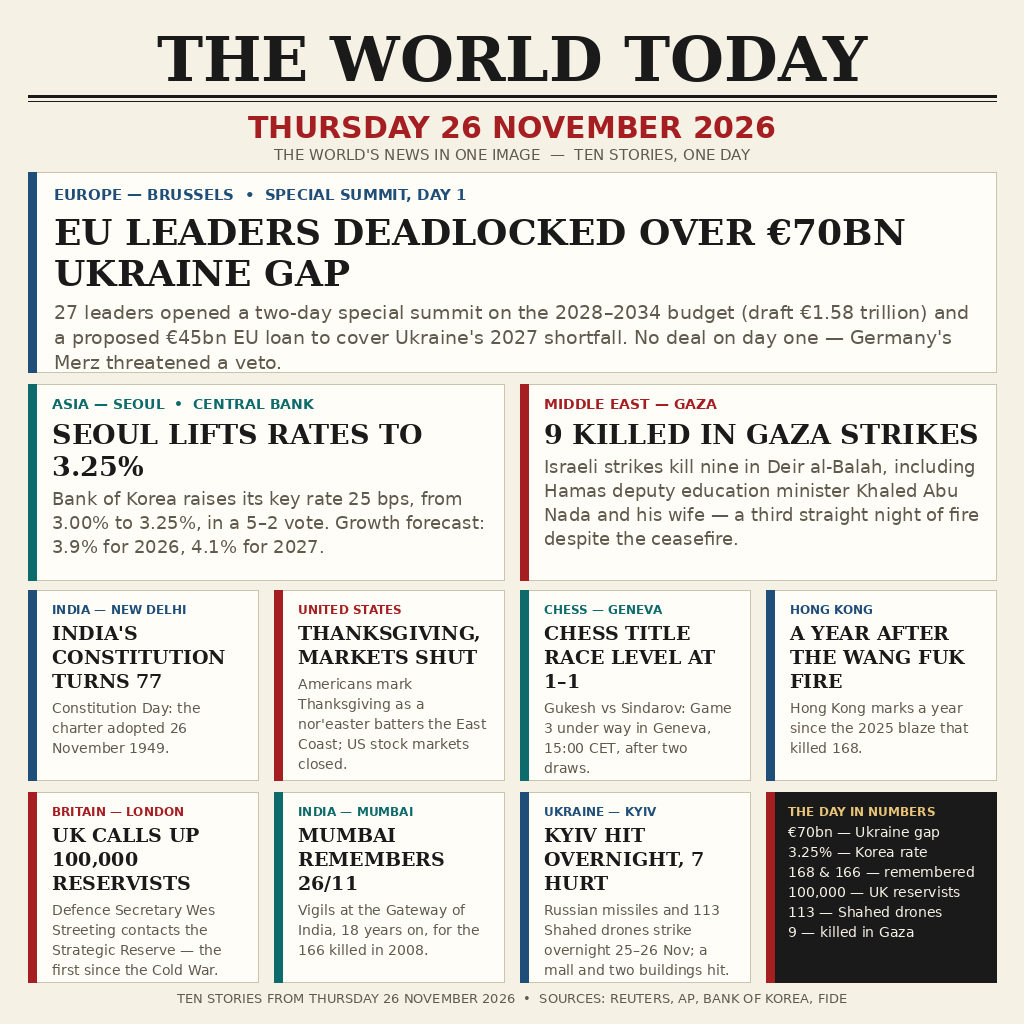
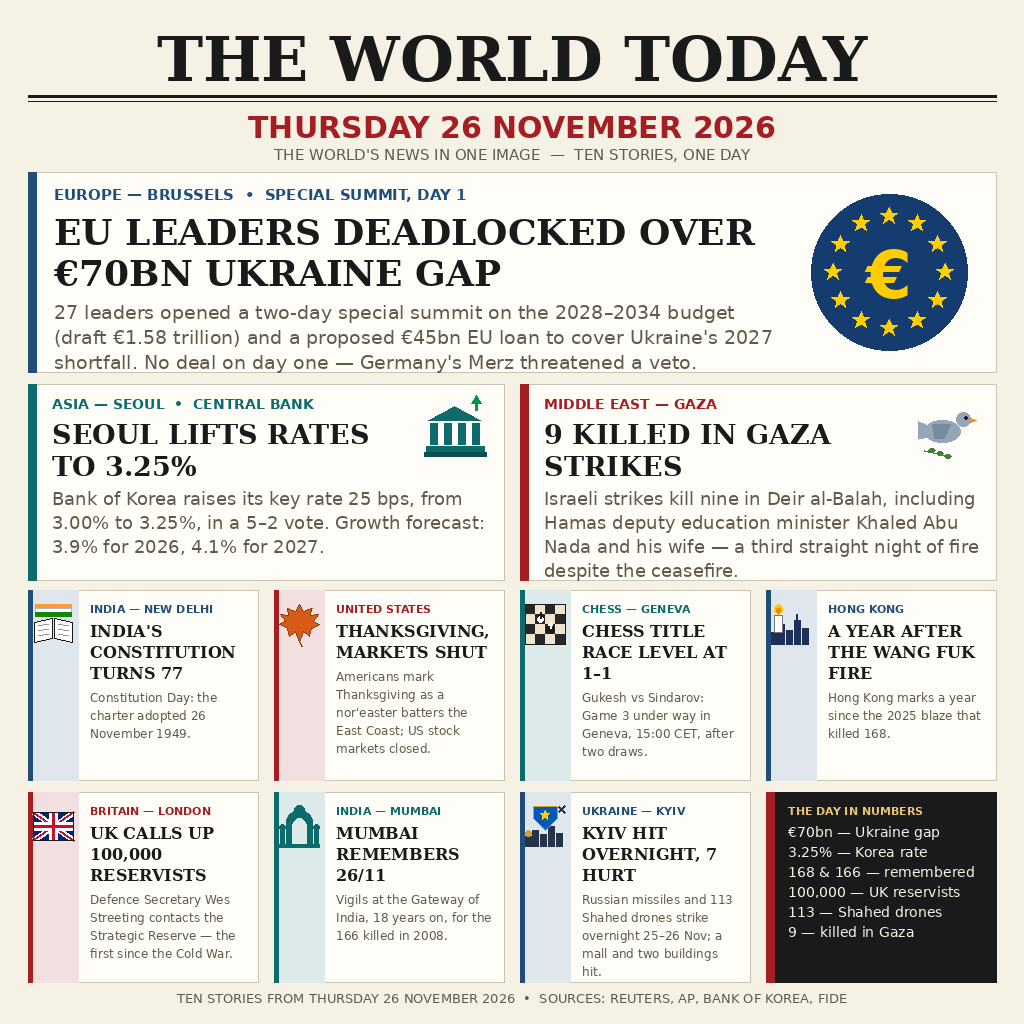
v2: illustrations for all ten stories (EU stars+euro, bank, dove, book, leaf, chess, candle, flag, gateway, shield)

diff --git a/main.py b/main.py
@@ -7,6 +7,12 @@ rate rise, India's Constitution Day, US Thanksgiving, the World Chess
 Championship, the Wang Fuk Court fire anniversary, Gaza, the UK reservist
 call-up, the Mumbai 26/11 anniversary and the overnight Kyiv strike.
 
+v2: every story gets a small illustration drawn in code with Pillow
+primitives (stars and euro for the EU summit, a bank, a dove, a book,
+a maple leaf, a chess board, a candle over a skyline, a Union Jack,
+the Gateway arch, a shield over Kyiv). No external images, no network,
+no text inside the illustrations.
+
 Runs with no network. Pillow is used when it is present; when it is not
 (the grading sandbox has only the standard library) the program copies
 the prebuilt entry.png shipped in this repository, so the output is the
@@ -79,19 +85,228 @@ def draw_panel(draw, box, accent):
     draw.rectangle([x0, y0, x0 + 8, y1], fill=accent)
 
 
-def draw_story(draw, box, accent, kicker, headline, body, fonts, sizes):
-    """Kicker + headline + body inside a panel; text never leaves the box."""
+def star_points(cx, cy, r_out, r_in, points=5):
+    """Vertices of a regular star polygon, first point at the top."""
+    import math
+
+    pts = []
+    for i in range(points * 2):
+        r = r_out if i % 2 == 0 else r_in
+        a = -math.pi / 2 + i * math.pi / points
+        pts.append((cx + r * math.cos(a), cy + r * math.sin(a)))
+    return pts
+
+
+def tint(color, frac=0.86):
+    """Mix a color toward white; used for the illustration strip."""
+    return tuple(int(c + (255 - c) * frac) for c in color)
+
+
+GOLD = (255, 205, 0)
+
+
+def draw_eu_illustration(draw, cx, cy, radius):
+    """Gold stars ring and euro sign on a blue disc (hero, EU summit)."""
+    import math
+
+    draw.ellipse([cx - radius, cy - radius, cx + radius, cy + radius],
+                 fill=(20, 60, 110))
+    for i in range(12):
+        a = -math.pi / 2 + i * math.pi / 6
+        sx = cx + (radius - 22) * math.cos(a)
+        sy = cy + (radius - 22) * math.sin(a)
+        draw.polygon(star_points(sx, sy, 9, 3.8), fill=GOLD)
+    euro_font = load_font("DejaVuSans-Bold.ttf", 66)
+    euro = "€"
+    ew = draw.textlength(euro, font=euro_font)
+    draw.text((cx - ew / 2, cy - 36), euro, font=euro_font, fill=GOLD)
+
+
+def draw_bank_icon(draw, x, y, s):
+    """A bank with columns and a rising-rate arrow (Seoul)."""
+    teal = (14, 107, 107)
+    draw.line([(x + s - 12, y + 14), (x + s - 12, y + 2)],
+              fill=(0, 150, 80), width=3)
+    draw.polygon([(x + s - 17, y + 7), (x + s - 7, y + 7), (x + s - 12, y - 1)],
+                 fill=(0, 150, 80))
+    draw.polygon([(x + 4, y + 24), (x + s - 8, y + 24), (x + s // 2 - 2, y + 10)],
+                 fill=teal)
+    for i in range(4):
+        cx0 = x + 6 + i * 14
+        draw.rectangle([cx0, y + 27, cx0 + 7, y + 48], fill=teal)
+    draw.rectangle([x + 2, y + 50, x + s - 4, y + 55], fill=teal)
+    draw.rectangle([x, y + 56, x + s - 2, y + 60], fill=(10, 80, 80))
+
+
+def draw_dove_icon(draw, x, y, s):
+    """A dove with an olive branch (Gaza) in soft blue-grey."""
+    dove = (148, 166, 184)
+    # tail feathers as one filled fan, joined to the body
+    draw.polygon([(x + 12, y + 29), (x + 2, y + 25), (x + 2, y + 43),
+                  (x + 12, y + 41)], fill=dove)
+    draw.ellipse([x + 8, y + 24, x + 44, y + 46], fill=dove)
+    draw.polygon([(x + 16, y + 28), (x + 34, y + 28), (x + 28, y + 42),
+                  (x + 18, y + 42)], fill=(120, 140, 160))
+    draw.ellipse([x + 40, y + 16, x + 54, y + 30], fill=dove)
+    draw.polygon([(x + 53, y + 21), (x + 60, y + 24), (x + 53, y + 27)],
+                 fill=(230, 150, 40))
+    draw.ellipse([x + 48, y + 20, x + 51, y + 23], fill=(26, 26, 26))
+    draw.line([(x + 8, y + 54), (x + 34, y + 60)], fill=(60, 130, 60), width=2)
+    for lx, ly in ((x + 12, y + 52), (x + 20, y + 55), (x + 28, y + 58)):
+        draw.ellipse([lx, ly, lx + 7, ly + 4], fill=(60, 130, 60))
+
+
+def draw_book_icon(draw, x, y, s):
+    """An open book under a saffron-white-green band (India)."""
+    band_w = s - 8
+    bx = x + 4
+    draw.rectangle([bx, y + 2, bx + band_w, y + 6], fill=(255, 153, 51))
+    draw.rectangle([bx, y + 6, bx + band_w, y + 10], fill=(255, 255, 255),
+                   outline=(180, 180, 180))
+    draw.rectangle([bx, y + 10, bx + band_w, y + 14], fill=(19, 136, 8))
+    mid = x + s // 2
+    draw.polygon([(x + 3, y + 20), (mid - 1, y + 16), (mid - 1, y + 36),
+                  (x + 3, y + 40)], fill=(255, 255, 255), outline=(26, 26, 26))
+    draw.polygon([(x + s - 3, y + 20), (mid + 1, y + 16), (mid + 1, y + 36),
+                  (x + s - 3, y + 40)], fill=(255, 255, 255), outline=(26, 26, 26))
+    for ly in (y + 23, y + 28, y + 33):
+        draw.line([(x + 7, ly), (mid - 5, ly - 1)], fill=(150, 150, 150), width=1)
+        draw.line([(mid + 5, ly - 1), (x + s - 7, ly)], fill=(150, 150, 150), width=1)
+
+
+def draw_leaf_icon(draw, x, y, s):
+    """A maple leaf in autumn orange (Thanksgiving)."""
+    cx = x + s // 2
+    pts = [
+        (cx, y + 2), (cx + 4, y + 9), (cx + 12, y + 6), (cx + 11, y + 13),
+        (cx + 19, y + 12), (cx + 14, y + 19), (cx + 20, y + 22),
+        (cx + 12, y + 26), (cx + 10, y + 34), (cx + 4, y + 29),
+        (cx, y + 40), (cx - 4, y + 29), (cx - 10, y + 34), (cx - 12, y + 26),
+        (cx - 20, y + 22), (cx - 14, y + 19), (cx - 19, y + 12),
+        (cx - 11, y + 13), (cx - 12, y + 6), (cx - 4, y + 9),
+    ]
+    draw.polygon(pts, fill=(214, 92, 24), outline=(150, 60, 10))
+    draw.line([(cx, y + 40), (cx + 2, y + 44)], fill=(120, 70, 20), width=2)
+
+
+def draw_chess_icon(draw, x, y, s):
+    """A 4x4 board with a white king and a black king (Geneva)."""
+    cell = (s - 4) // 4
+    ox, oy = x + 2, y + 2
+    for r in range(4):
+        for c in range(4):
+            fill = (40, 40, 40) if (r + c) % 2 == 0 else (238, 228, 205)
+            draw.rectangle([ox + c * cell, oy + r * cell,
+                            ox + (c + 1) * cell, oy + (r + 1) * cell], fill=fill)
+    draw.rectangle([ox, oy, ox + 4 * cell, oy + 4 * cell],
+                   outline=(26, 26, 26), width=1)
+    kx, ky = ox + 1 * cell + cell // 2, oy + 1 * cell + cell // 2
+    draw.ellipse([kx - 4, ky - 4, kx + 4, ky + 4], fill=(255, 255, 255),
+                 outline=(26, 26, 26))
+    draw.line([(kx, ky - 7), (kx, ky - 1)], fill=(26, 26, 26), width=2)
+    draw.line([(kx - 2, ky - 5), (kx + 2, ky - 5)], fill=(26, 26, 26), width=2)
+    kx, ky = ox + 2 * cell + cell // 2, oy + 2 * cell + cell // 2
+    draw.ellipse([kx - 4, ky - 4, kx + 4, ky + 4], fill=(26, 26, 26))
+    draw.line([(kx, ky - 7), (kx, ky - 1)], fill=(255, 255, 255), width=2)
+    draw.line([(kx - 2, ky - 5), (kx + 2, ky - 5)], fill=(255, 255, 255), width=2)
+
+
+def draw_candle_icon(draw, x, y, s):
+    """A lit candle in front of a harbour skyline (Hong Kong)."""
+    dark = (28, 48, 88)
+    for bx, bh in ((x + 2, 12), (x + 9, 20), (x + 17, 14), (x + 25, 24),
+                   (x + 33, 16)):
+        draw.rectangle([bx, y + s - 2 - bh, bx + 6, y + s - 2], fill=dark)
+    draw.line([(x + 28, y + s - 2 - 24), (x + 28, y + s - 2 - 30)],
+              fill=dark, width=2)
+    draw.ellipse([x + 5, y + 2, x + 13, y + 12], fill=(255, 200, 0))
+    draw.ellipse([x + 7, y + 5, x + 11, y + 11], fill=(255, 120, 0))
+    draw.rectangle([x + 5, y + 13, x + 13, y + 30], fill=(255, 255, 255),
+                   outline=(120, 120, 120))
+
+
+def draw_flag_icon(draw, x, y, s):
+    """A Union Jack (London)."""
+    x0, y0, x1, y1 = x + 2, y + 8, x + s - 2, y + s - 8
+    draw.rectangle([x0, y0, x1, y1], fill=(0, 36, 125))
+    draw.line([(x0, y0), (x1, y1)], fill=(255, 255, 255), width=6)
+    draw.line([(x1, y0), (x0, y1)], fill=(255, 255, 255), width=6)
+    draw.line([(x0, y0), (x1, y1)], fill=(200, 16, 46), width=2)
+    draw.line([(x1, y0), (x0, y1)], fill=(200, 16, 46), width=2)
+    mx, my = (x0 + x1) // 2, (y0 + y1) // 2
+    draw.rectangle([x0, my - 4, x1, my + 4], fill=(255, 255, 255))
+    draw.rectangle([mx - 4, y0, mx + 4, y1], fill=(255, 255, 255))
+    draw.rectangle([x0, my - 1, x1, my + 1], fill=(200, 16, 46))
+    draw.rectangle([mx - 1, y0, mx + 1, y1], fill=(200, 16, 46))
+    draw.rectangle([x0, y0, x1, y1], outline=(26, 26, 26), width=1)
+
+
+def draw_gateway_icon(draw, x, y, s):
+    """The Gateway of India arch (Mumbai)."""
+    teal = (14, 107, 107)
+    opening = tint(teal)
+    draw.rectangle([x + 3, y + 24, x + 7, y + 40], fill=teal)
+    draw.rectangle([x + s - 7, y + 24, x + s - 3, y + 40], fill=teal)
+    draw.ellipse([x + 2, y + 20, x + 8, y + 26], fill=teal)
+    draw.ellipse([x + s - 8, y + 20, x + s - 2, y + 26], fill=teal)
+    draw.ellipse([x + 9, y + 6, x + s - 9, y + 30], fill=teal)
+    draw.rectangle([x + 9, y + 18, x + s - 9, y + 40], fill=teal)
+    draw.ellipse([x + 15, y + 14, x + s - 15, y + 32], fill=opening)
+    draw.rectangle([x + 15, y + 23, x + s - 15, y + 40], fill=opening)
+    draw.ellipse([x + s // 2 - 5, y + 1, x + s // 2 + 5, y + 9], fill=teal)
+    draw.rectangle([x + 2, y + 40, x + s - 2, y + 43], fill=teal)
+
+
+def draw_kyiv_icon(draw, x, y, s):
+    """A shield over a skyline, with a small drone (Kyiv)."""
+    dark = (38, 52, 74)
+    for bx, bh in ((x + 2, 10), (x + 9, 16), (x + 17, 12), (x + 25, 20),
+                   (x + 33, 13)):
+        draw.rectangle([bx, y + s - 2 - bh, bx + 6, y + s - 2], fill=dark)
+    draw.ellipse([x + 2, y + s - 2 - 16, x + 8, y + s - 2 - 10],
+                 fill=(212, 160, 40))
+    cx = x + s // 2
+    draw.polygon([(cx - 12, y + 2), (cx + 12, y + 2), (cx + 12, y + 14),
+                  (cx, y + 26), (cx - 12, y + 14)],
+                 fill=(0, 90, 180), outline=(212, 160, 40))
+    draw.polygon(star_points(cx, y + 11, 5, 2.2), fill=(255, 205, 0))
+    draw.line([(x + 35, y + 2), (x + 41, y + 8)], fill=dark, width=2)
+    draw.line([(x + 41, y + 2), (x + 35, y + 8)], fill=dark, width=2)
+
+
+def draw_story(draw, box, accent, kicker, headline, body, fonts, sizes,
+               icon=None, icon_size=0, icon_pos="right"):
+    """Kicker + headline + body inside a panel; text never leaves the box.
+
+    icon: an optional drawing function (draw, x, y, size). With
+    icon_pos="right" it sits in the top-right corner and the kicker and
+    headline wrap left of it; the body starts below it. With
+    icon_pos="left" it sits in a tinted strip down the card's left side
+    and the text starts right of the strip.
+    """
     x0, y0, x1, y1 = box
-    draw_panel(draw, box, accent)
-    pad = 16
-    tx = x0 + 8 + pad
-    tw = x1 - tx - pad
-    y = y0 + 12
     kick_font, head_font, body_font = fonts
     kick_size, head_size, body_size = sizes
+    if icon is not None and icon_pos == "left":
+        strip_w = icon_size + 6
+        draw.rectangle([x0, y0, x1, y1], fill=CARD, outline=FAINT, width=1)
+        draw.rectangle([x0, y0, x0 + strip_w, y1], fill=tint(accent))
+        draw.rectangle([x0, y0, x0 + 4, y1], fill=accent)
+        icon(draw, x0 + 3, y0 + 12, icon_size)
+        tx = x0 + strip_w + 12
+        tw = x1 - tx - 12
+    else:
+        draw_panel(draw, box, accent)
+        tx = x0 + 8 + 16
+        tw = x1 - tx - 16
+    y = y0 + 12
+    head_tw = tw
+    if icon is not None and icon_pos == "right":
+        icon(draw, x1 - 16 - icon_size, y0 + 12, icon_size)
+        head_tw = tw - icon_size - 12
     draw.text((tx, y), kicker, font=kick_font, fill=accent)
     y += kick_size + 8
-    head_lines = wrap_lines(draw, headline, head_font, tw)
+    head_lines = wrap_lines(draw, headline, head_font, head_tw)
     y = draw_lines(draw, tx, y, head_lines, head_font, INK, head_size + 5)
     y += 6
     body_lines = wrap_lines(draw, body, body_font, tw)
@@ -121,7 +336,7 @@ def draw_hero(draw):
     box = (MARGIN, 172, W - MARGIN, 372)
     draw_panel(draw, box, BLUE)
     tx = MARGIN + 8 + 18
-    tw = W - MARGIN - tx - 18
+    tw = 800 - tx - 18
     y = 172 + 14
     kick = load_font("DejaVuSans-Bold.ttf", 15)
     head = load_font("DejaVuSerif-Bold.ttf", 36)
@@ -138,6 +353,7 @@ def draw_hero(draw):
             "threatened a veto.")
     body_lines = wrap_lines(draw, text, body, tw)
     draw_lines(draw, tx, y, body_lines, body, MUTED, 25)
+    draw_eu_illustration(draw, 889, 272, 78)
 
 
 def draw_secondary(draw):
@@ -156,52 +372,61 @@ def draw_secondary(draw):
                "Bank of Korea raises its key rate 25 bps, from 3.00% to "
                "3.25%, in a 5–2 vote. Growth forecast: 3.9% for 2026, "
                "4.1% for 2027.",
-               fonts, sizes)
+               fonts, sizes,
+               icon=draw_bank_icon, icon_size=64, icon_pos="right")
     draw_story(draw, right, RED, "MIDDLE EAST — GAZA",
                "9 KILLED IN GAZA STRIKES",
                "Israeli strikes kill nine in Deir al-Balah, including Hamas "
                "deputy education minister Khaled Abu Nada and his wife — a "
                "third straight night of fire despite the ceasefire.",
-               fonts, sizes)
+               fonts, sizes,
+               icon=draw_dove_icon, icon_size=64, icon_pos="right")
 
 
 SMALL_STORIES = [
     (BLUE, "INDIA — NEW DELHI",
      "INDIA'S CONSTITUTION TURNS 77",
-     "Constitution Day: the charter adopted 26 November 1949."),
+     "Constitution Day: the charter adopted 26 November 1949.",
+     draw_book_icon),
     (RED, "UNITED STATES",
      "THANKSGIVING, MARKETS SHUT",
      "Americans mark Thanksgiving as a nor'easter batters the East "
-     "Coast; US stock markets closed."),
+     "Coast; US stock markets closed.",
+     draw_leaf_icon),
     (TEAL, "CHESS — GENEVA",
      "CHESS TITLE RACE LEVEL AT 1–1",
      "Gukesh vs Sindarov: Game 3 under way in Geneva, 15:00 CET, "
-     "after two draws."),
+     "after two draws.",
+     draw_chess_icon),
     (BLUE, "HONG KONG",
      "A YEAR AFTER THE WANG FUK FIRE",
-     "Hong Kong marks a year since the 2025 blaze that killed 168."),
+     "Hong Kong marks a year since the 2025 blaze that killed 168.",
+     draw_candle_icon),
     (RED, "BRITAIN — LONDON",
      "UK CALLS UP 100,000 RESERVISTS",
      "Defence Secretary Wes Streeting contacts the Strategic Reserve "
-     "— the first since the Cold War."),
+     "— the first since the Cold War.",
+     draw_flag_icon),
     (TEAL, "INDIA — MUMBAI",
      "MUMBAI REMEMBERS 26/11",
      "Vigils at the Gateway of India, 18 years on, for the 166 killed "
-     "in 2008."),
+     "in 2008.",
+     draw_gateway_icon),
     (BLUE, "UKRAINE — KYIV",
      "KYIV HIT OVERNIGHT, 7 HURT",
      "Russian missiles and 113 Shahed drones strike overnight 25–26 "
-     "Nov; a mall and two buildings hit."),
+     "Nov; a mall and two buildings hit.",
+     draw_kyiv_icon),
 ]
 
 
 def draw_small_grid(draw):
     """Seven small story cards plus a day-in-numbers panel: no empty cell."""
-    kick = load_font("DejaVuSans-Bold.ttf", 12)
-    head = load_font("DejaVuSerif-Bold.ttf", 19)
-    body = load_font("DejaVuSans.ttf", 14)
+    kick = load_font("DejaVuSans-Bold.ttf", 11)
+    head = load_font("DejaVuSerif-Bold.ttf", 16)
+    body = load_font("DejaVuSans.ttf", 12)
     fonts = (kick, head, body)
-    sizes = (12, 19, 14)
+    sizes = (11, 16, 12)
     card_w = (CONTENT_W - 3 * 16) // 4
     card_h = 190
     rows = [(590, 590 + card_h), (792, 792 + card_h)]
@@ -210,8 +435,9 @@ def draw_small_grid(draw):
         for col in range(4):
             x0 = MARGIN + col * (card_w + 16)
             cells.append((x0, ry0, x0 + card_w, ry1))
-    for (accent, kicker, headline, text), box in zip(SMALL_STORIES, cells):
-        draw_story(draw, box, accent, kicker, headline, text, fonts, sizes)
+    for (accent, kicker, headline, text, icon), box in zip(SMALL_STORIES, cells):
+        draw_story(draw, box, accent, kicker, headline, text, fonts, sizes,
+                   icon=icon, icon_size=44, icon_pos="left")
     box = cells[7]
     x0, y0, x1, y1 = box
     draw.rectangle([x0, y0, x1, y1], fill=DARK)
